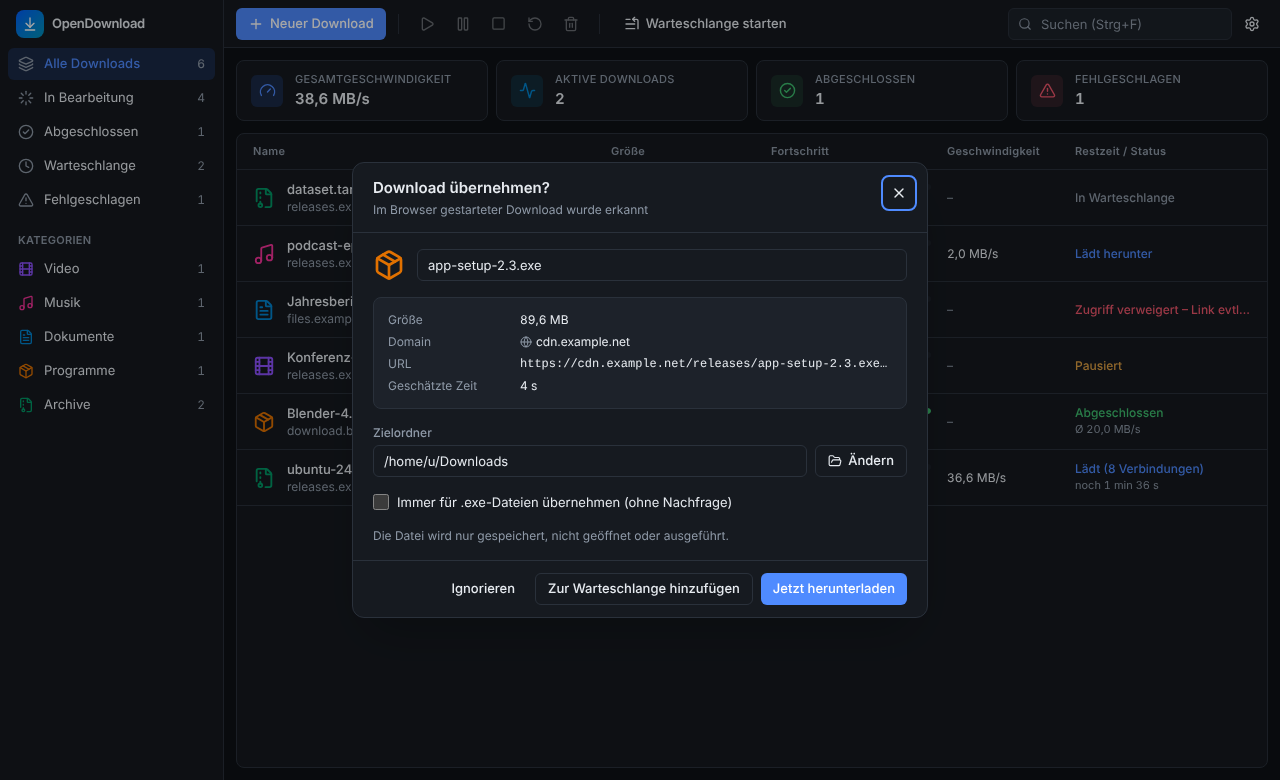
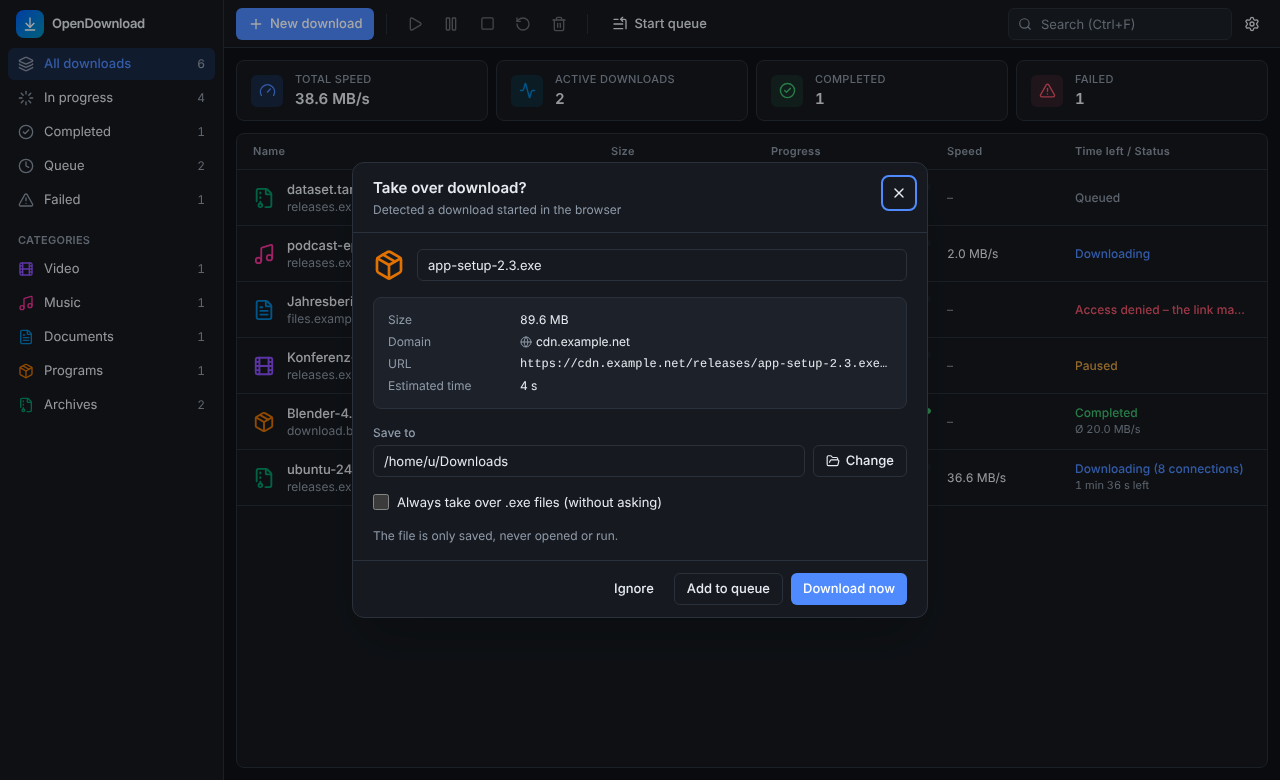
Rewrite README in English with English screenshots
Claude-Session: https://claude.ai/code/session_01JyAuBXWtJG4g2syySY15mh

diff --git a/README.md b/README.md
@@ -1,153 +1,156 @@
 # OpenDownload Manager
 
-Kostenloser, quelloffener Download-Manager für **Windows 10/11** und **macOS** (Intel und
-Apple Silicon). Lädt Dateien über mehrere Verbindungen, setzt abgebrochene Downloads fort,
-übernimmt Downloads direkt aus dem Browser und zeigt den Fortschritt auf Wunsch auch auf dem
-Handy. Keine Werbung, kein Tracking, keine Registrierung, keine Cloud.
+A free, open-source download manager for **Windows 10/11** and **macOS** (Intel and Apple
+Silicon). It downloads files over multiple connections, resumes interrupted downloads, takes
+over downloads straight from your browser and can show progress on your phone. No ads, no
+tracking, no account, no cloud.
 
-Gebaut mit Tauri 2, Rust und React/TypeScript.
+Built with Tauri 2, Rust and React/TypeScript.
 
-![Hauptfenster mit Download-Liste (Beispieldaten)](docs/images/app-light.png)
+![Main window with the download list (sample data)](docs/images/app.png)
 
-## Funktionen
+## Features
 
 **Downloads**
-* Bis zu 32 parallele Verbindungen pro Datei, wenn der Server Byte-Ranges unterstützt –
-  freie Verbindungen übernehmen die Hälfte des größten Restbereichs, damit alle bis zum Ende arbeiten
-* Pause und Fortsetzen, auch nach App-Neustart oder Verbindungsabbruch; erkennt, wenn sich die
-  Datei auf dem Server geändert hat (ETag/Last-Modified) und lädt dann sauber neu
-* Automatische Wiederholung mit Backoff, beachtet `Retry-After` (429/503), sichere Redirects
-* Prüfung von Größe und optional SHA-256; Teildateien (`.odmpart`) werden erst am Ende umbenannt
-* Geschwindigkeitsmodi: Maximal, Ausgewogen, Benutzerdefiniert (KB/s, MB/s)
-* Warteschlange mit Prioritäten, Parallelitätslimit und Zeitplan
-* Verhindert den automatischen Ruhezustand, solange Downloads laufen (Bildschirm darf sich sperren)
+* Up to 32 parallel connections per file when the server supports byte ranges – idle
+  connections take over half of the largest remaining range, so all of them keep working
+  until the end
+* Pause and resume, even after an app restart or a dropped connection; detects when the file
+  changed on the server (ETag/Last-Modified) and cleanly starts over
+* Automatic retries with backoff, honours `Retry-After` (429/503), safe redirects
+* Size check and optional SHA-256 verification; partial files (`.odmpart`) are only renamed
+  once complete
+* Speed modes: Maximum, Balanced, Custom limit (KB/s, MB/s)
+* Queue with priorities, concurrency limit and schedule
+* Prevents idle sleep while downloads are running (the screen may still lock)
 
-**Browser-Integration**
-* Erweiterung für Chrome, Edge, Brave, Vivaldi und Firefox: erkennt im Browser gestartete
-  Downloads und fragt, ob die App übernehmen soll – oder übernimmt automatisch
-* Dateitypen, Ausnahmen (Domains, Typen, URL-Teile), „Immer für diesen Dateityp übernehmen“
-* Kontextmenü „Mit OpenDownload Manager herunterladen“ für Links, Video und Audio
+**Browser integration**
+* Extension for Chrome, Edge, Brave, Vivaldi and Firefox: detects downloads started in the
+  browser and asks whether the app should take over – or takes over automatically
+* File types, exclusions (domains, types, URL patterns), "Always take over this file type"
+* Context menu "Download with OpenDownload Manager" for links, video and audio
 
-**Handy-Ansicht** (nur ansehen, standardmäßig aus)
-* QR-Code scannen und den Fortschritt im Heimnetz auf dem Smartphone verfolgen
-* Zeigt nur Dateiname, Status, Fortschritt, Geschwindigkeit und Restzeit – keine Links, keine Steuerung
+**Phone view** (view only, off by default)
+* Scan a QR code and follow progress on your phone in your home network
+* Shows only file name, status, progress, speed and time left – no links, no controls
 
-**Oberfläche**
-* Dashboard, Kategorien, Suche, Sortierung, Mehrfachauswahl, Kontextmenüs, Tastaturkürzel
-* Drag-and-drop von Links, URL aus der Zwischenablage, helles/dunkles Design
-* Deutsch und Englisch (App, Handy-Ansicht und Browser-Erweiterung); Standard ist die Systemsprache
-* Tray bzw. Menüleiste, Minimieren in den Hintergrund, Benachrichtigungen
-* Programme (`.exe`, `.dmg`, …) werden nur nach ausdrücklicher Bestätigung geöffnet
+**User interface**
+* Dashboard, categories, search, sorting, multi-select, context menus, keyboard shortcuts
+* Drag and drop links, paste URLs from the clipboard, light and dark theme
+* English and German (app, phone view and browser extension); follows the system language
+  by default
+* System tray / menu bar, minimise to background, notifications
+* Programs (`.exe`, `.dmg`, …) are only opened after explicit confirmation
 
 <p>
-  <img src="docs/images/capture-dialog.png" alt="Dialog „Download übernehmen?“" width="640">
-  <img src="docs/images/phone-view.png" alt="Handy-Ansicht" width="260">
+  <img src="docs/images/capture-dialog.png" alt="&quot;Take over download?&quot; dialog" width="640">
+  <img src="docs/images/phone-view.png" alt="Phone view" width="260">
 </p>
 
-Vollständige Liste und ehrliche Einschränkungen: [docs/FEATURES.md](docs/FEATURES.md).
+Full feature list and honest limitations: [docs/FEATURES.md](docs/FEATURES.md).
 
 ## Installation
 
-Es gibt noch kein offizielles Release. Testbuilds erzeugt jeder Push automatisch:
+There is no official release yet. Every push builds test packages automatically:
 
-1. Unter [Actions → CI](../../actions/workflows/ci.yml) den neuesten grünen Lauf öffnen.
-2. Unten bei „Artifacts“ herunterladen:
-   * **bundle-macos** – DMG (Universal: Intel + Apple Silicon)
-   * **bundle-windows** – Installer (`*-setup.exe`) und MSI
-   * **extension** – Browser-Erweiterung (`chrome/` und `firefox/`)
-3. App installieren und einmal starten. Sie registriert die Browser-Integration selbst.
+1. Open the latest green run under [Actions → CI](../../actions/workflows/ci.yml).
+2. Download from "Artifacts" at the bottom:
+   * **bundle-macos** – DMG (universal: Intel + Apple Silicon)
+   * **bundle-windows** – installer (`*-setup.exe`) and MSI
+   * **extension** – browser extension (`chrome/` and `firefox/`)
+3. Install the app and start it once. It registers the browser integration by itself.
 
-**macOS:** Die Testbuilds sind nicht notarisiert. Beim ersten Start Rechtsklick → „Öffnen“
-(oder Systemeinstellungen → Datenschutz & Sicherheit → „Dennoch öffnen“), alternativ:
+**macOS:** the test builds are not notarized. On first launch, right-click → "Open" (or System
+Settings → Privacy & Security → "Open Anyway"), or run:
 
 ```bash
 xattr -dr com.apple.quarantine "/Applications/OpenDownload Manager.app"
 ```
 
-**Windows:** SmartScreen warnt bei unsignierten Programmen – „Weitere Informationen“ →
-„Trotzdem ausführen“.
+**Windows:** SmartScreen warns about unsigned programs – click "More info" → "Run anyway".
 
-### Browser-Erweiterung (Chrome, Edge, Brave, Vivaldi)
+### Browser extension (Chrome, Edge, Brave, Vivaldi)
 
-1. Das Artefakt **extension** entpacken und den Ordner `chrome` an einem festen Ort ablegen.
-2. `chrome://extensions` öffnen, oben rechts den **Entwicklermodus** einschalten.
-3. **„Entpackte Erweiterung laden“** → den Ordner `chrome` wählen.
-4. Im Popup der Erweiterung sollte „Verbunden mit OpenDownload Manager“ stehen. Falls nicht:
-   in der App **Einstellungen → Browser → Registrieren** und den Browser neu starten.
+1. Unzip the **extension** artifact and keep the `chrome` folder in a permanent location.
+2. Open `chrome://extensions` and switch on **Developer mode** (top right).
+3. Click **"Load unpacked"** and select the `chrome` folder.
+4. The extension popup should say "Connected to OpenDownload Manager". If not, click
+   **Settings → Browser → Register** in the app and restart the browser.
 
-Firefox und Details zur Registrierung: [docs/BROWSER_INTEGRATION.md](docs/BROWSER_INTEGRATION.md).
+Firefox and registration details: [docs/BROWSER_INTEGRATION.md](docs/BROWSER_INTEGRATION.md).
 
-### Handy-Ansicht
+### Phone view
 
-In der App **Einstellungen → Handy** einschalten, den QR-Code mit der Handy-Kamera scannen
-(Handy im selben WLAN). Auf dem iPhone in Safari „Teilen → Zum Home-Bildschirm“ für ein
-App-Symbol. Nur in vertrauenswürdigen Netzen aktivieren; für unterwegs eignet sich ein VPN
-wie Tailscale.
+Turn it on under **Settings → Phone** in the app and scan the QR code with your phone's
+camera (phone on the same Wi-Fi). On iPhone, use Safari's "Share → Add to Home Screen" to get
+an app icon. Only enable it on trusted networks; for access on the go, use a VPN such as
+Tailscale.
 
-## Hinweis zur Geschwindigkeit
+## A note on speed
 
-Die App zeigt **MB/s** (Megabyte, binär), Internettarife werden in **Mbit/s** angegeben:
-100 Mbit/s entsprechen etwa **11,9 MB/s** in der Anzeige. Mehrere Verbindungen helfen nur,
-wenn der Server pro Verbindung drosselt – ist die eigene Leitung voll ausgelastet, geht es
-nicht schneller.
+The app shows **MB/s** (megabytes, binary), while internet plans are sold in **Mbit/s**:
+100 Mbit/s is about **11.9 MB/s** in the app. Multiple connections only help when the server
+throttles each connection – once your own line is fully used, it cannot go any faster.
 
-## Entwicklung
+## Development
 
-Voraussetzungen: Rust (stable), Node.js 22 und die plattformspezifischen Build-Tools
-(siehe [docs/BUILD.md](docs/BUILD.md)).
+Requirements: Rust (stable), Node.js 22 and the platform build tools
+(see [docs/BUILD.md](docs/BUILD.md)).
 
 ```bash
 npm ci
-npm run app:dev                            # App mit Hot-Reload
-cd extension && npm ci && npm run build    # Erweiterung → extension/dist/{chrome,firefox}
+npm run app:dev                            # app with hot reload
+cd extension && npm ci && npm run build    # extension → extension/dist/{chrome,firefox}
 ```
 
 ### Tests
 
 ```bash
-cargo test --workspace                 # Rust: Unit- und Integrationstests mit lokalem Testserver
-npm run typecheck && npm test          # Frontend
-cd extension && npm test               # Erfassungsregeln der Erweiterung
-xvfb-run -a node e2e/browser-e2e.mjs   # Linux: Chromium → Erweiterung → Host → App → Datei
+cargo test --workspace                 # Rust: unit and integration tests against a local test server
+npm run typecheck && npm test          # frontend
+cd extension && npm test               # extension capture rules and translations
+xvfb-run -a node e2e/browser-e2e.mjs   # Linux: Chromium → extension → host → app → file
 ```
 
-### Installer bauen
+### Building installers
 
 ```bash
 npm run app:build    # Windows: NSIS + MSI, macOS: .app + DMG
 ```
 
-Universal-Build für macOS, Signierung und Notarisierung: [docs/BUILD.md](docs/BUILD.md).
-GitHub Actions bauen bei jedem Push Testpakete und bei Tags `v*` ein Draft-Release.
+Universal macOS builds, code signing and notarization: [docs/BUILD.md](docs/BUILD.md).
+GitHub Actions builds test packages on every push and a draft release for `v*` tags.
 
-### Projektstruktur
+### Project structure
 
 ```
-crates/odm-core/          Download-Engine, Segmente, Queue, Scheduler, SQLite, Einstellungen (Rust)
-crates/odm-ipc/           Protokoll + lokaler, authentifizierter IPC-Transport
-crates/odm-native-host/   Native-Messaging-Host für die Browser-Erweiterung
-src-tauri/                Tauri-2-App: Commands, IPC-Endpunkt, Tray, Handy-Ansicht, Energieverwaltung
-src/                      React/TypeScript-Oberfläche (Tailwind, Radix)
-extension/                WebExtension (MV3) für Chromium und Firefox
-e2e/                      Ende-zu-Ende-Test Browser → Host → App → Datei
-scripts/                  Build-Helfer (Sidecar)
-docs/                     Architektur, Browser-Integration, Build, Sicherheit, Funktionen
+crates/odm-core/          download engine, segments, queue, scheduler, SQLite, settings (Rust)
+crates/odm-ipc/           protocol + local, authenticated IPC transport
+crates/odm-native-host/   native messaging host for the browser extension
+src-tauri/                Tauri 2 app: commands, IPC endpoint, tray, phone view, power management
+src/                      React/TypeScript UI (Tailwind, Radix), translations in src/i18n/
+extension/                WebExtension (MV3) for Chromium and Firefox
+e2e/                      end-to-end test browser → host → app → file
+scripts/                  build helpers (sidecar)
+docs/                     architecture, browser integration, build, security, features
 ```
 
-## Datenschutz
+## Privacy
 
-Alles läuft lokal. Die App verbindet sich nur mit den Servern der Dateien, die du herunterlädst.
-Cookies und Passwörter werden nie gespeichert, Logs enthalten keine URL-Parameter. Details:
+Everything runs locally. The app only connects to the servers of the files you download.
+Cookies and passwords are never stored, and logs contain no URL parameters. Details:
 [docs/SECURITY.md](docs/SECURITY.md).
 
-## Dokumentation
+## Documentation
 
-* [Architektur & Entscheidungen](docs/ARCHITECTURE.md)
-* [Browser-Integration & Native Messaging](docs/BROWSER_INTEGRATION.md)
-* [Build, Installation, Signierung](docs/BUILD.md)
-* [Sicherheit & Datenschutz](docs/SECURITY.md)
-* [Funktionen & Einschränkungen](docs/FEATURES.md)
+The detailed documentation is currently in German:
 
-## Lizenz
+* [Architecture & decisions](docs/ARCHITECTURE.md)
+* [Browser integration & native messaging](docs/BROWSER_INTEGRATION.md)
+* [Build, installation, signing](docs/BUILD.md)
+* [Security & privacy](docs/SECURITY.md)
+* [Features & limitations](docs/FEATURES.md)
 
-MIT – siehe [LICENSE](LICENSE).
+## License
+
+MIT – see [LICENSE](LICENSE).
